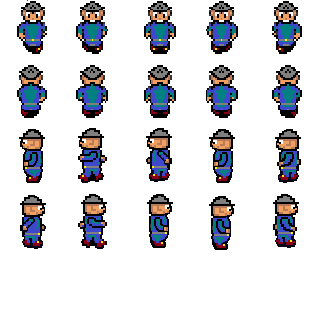
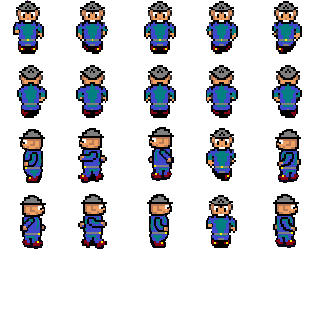
Established the art of killing trees
See subject

Changed region(s): [[0.625, 0.4062, 0.75, 0.7812], [0.0312, 0.0, 0.1562, 0.1875], [0.4375, 0.375, 0.5625, 0.5938]]

diff --git a/index.html b/index.html
@@ -30,12 +30,15 @@ function preload() {
 	game.load.image('earth', 'assets/earth.png');
 	game.load.image('tree', 'assets/trees full.png');
 	
+	
 }
 
 var land;
 var hero;
 var cursors;
 var trees;
+
+
 
 
 
@@ -54,10 +57,11 @@ function create() {
 	//enable pyhsics
 	game.physics.arcade.enable(hero);
 	
-	hero.animations.add('left', [12, 10, 11, 13], 10, true);
+	hero.animations.add('left', [12, 10, 11, 14], 10, true);
 	hero.animations.add('right', [19,15,16,17], 10, true);
 	hero.animations.add('down', [0, 1, 3, 4], 10, true);
 	hero.animations.add('up', [5,6,8,9], 10, true);
+	hero.animations.add('punch', [18], 10, true);
 	
 	
 	
@@ -71,7 +75,7 @@ function create() {
 	trees.enableBody = true;
 	
 	
-	for (var i = 0; i < 50; i++)
+	for (var i = 0; i < 100; i++)
 		{
 			var x = game.world.randomX;
 			var y = game.world.randomY;
@@ -97,7 +101,9 @@ function update() {
 	land.tilePosition.x = -game.camera.x;
     land.tilePosition.y = -game.camera.y;
 	
-	game.physics.arcade.collide(hero, trees);
+	//game.physics.arcade.collide(hero, trees);
+	
+	//game.physics.arcade.overlap(hero, trees, collectWood, null, this);
 	
 	  //  Reset the players velocity (movement)
     hero.body.velocity.x = 0;
@@ -134,6 +140,7 @@ function update() {
         hero.animations.play('down');
     }
 	
+	
     else
     {
         //  Stand still
@@ -142,10 +149,29 @@ function update() {
         hero.frame = 2;
     }
 	
-
+	if (game.input.activePointer.isDown)
+    {
+        //  Punch
+        punch();
+    }
 	
 
 }
+
+function punch () {
+
+	hero.animations.play('punch');
+	game.physics.arcade.overlap(hero, trees, collectWood, null, this);
+}
+
+function collectWood (hero, tree) {
+    
+    // Removes the tree from the screen
+    tree.kill();
+   
+
+}
+
 
 </script>
 
